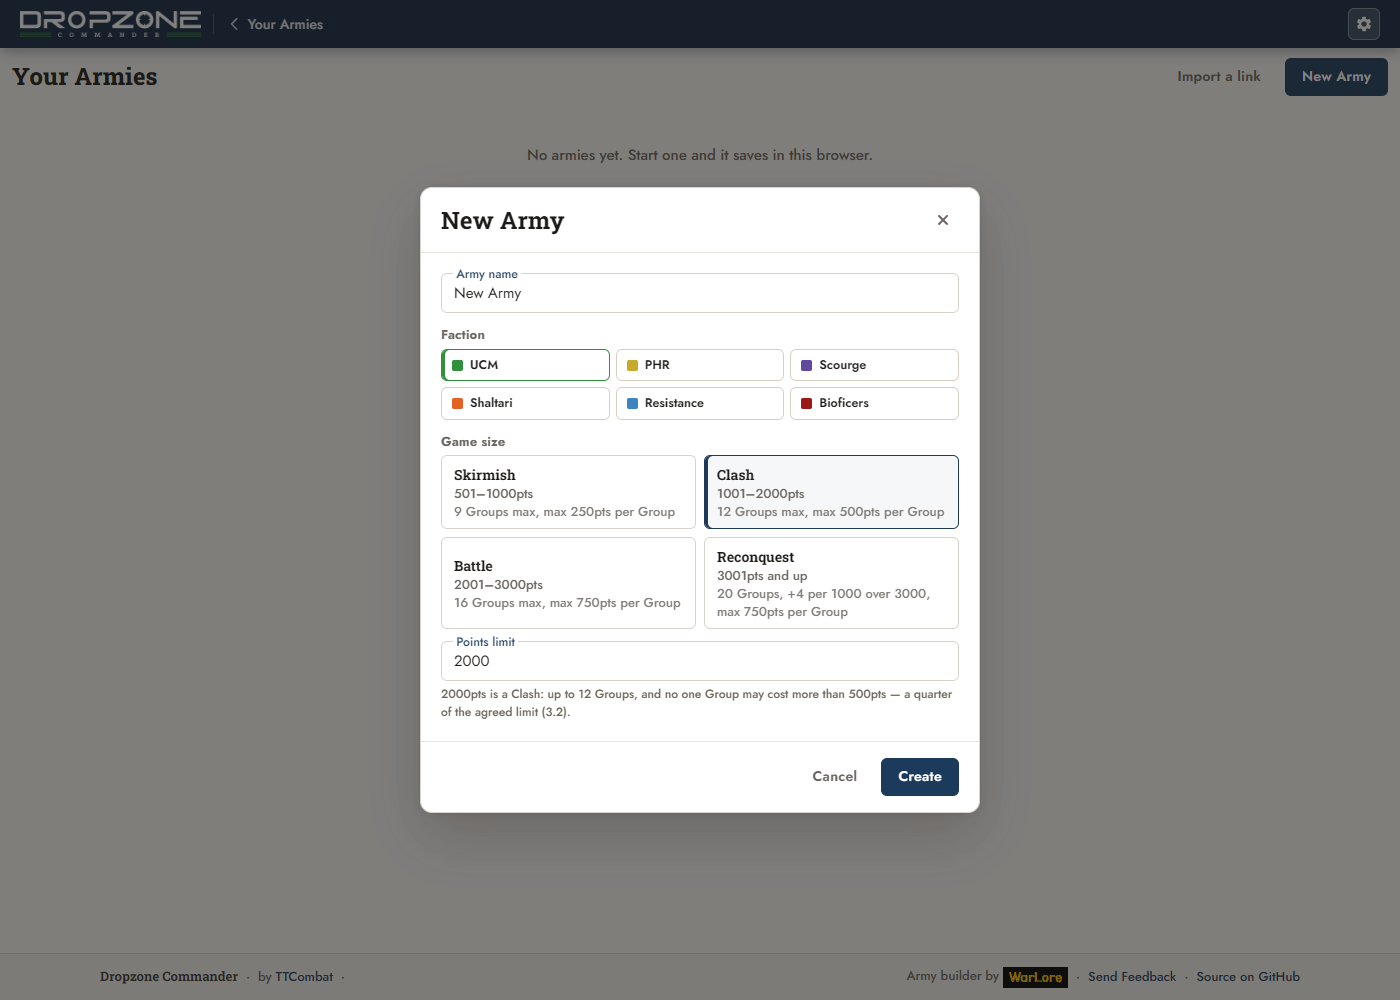
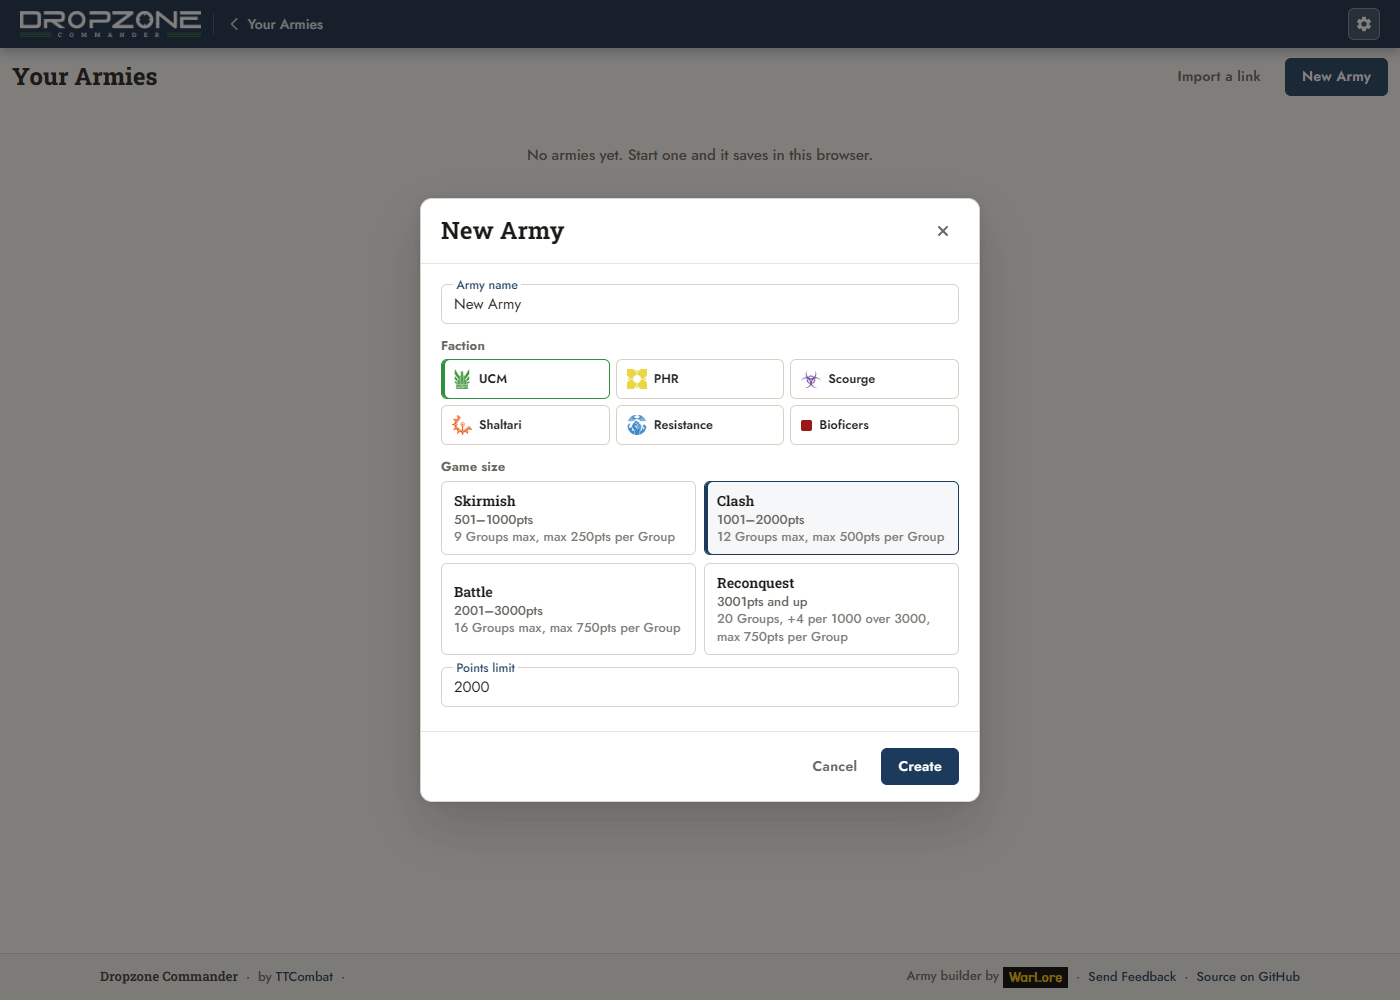
Gate Play, wire the real faction art, drop the New Army explainer
Play is disabled without a Commander and says why: CP per Round, hand size and
the Initiative modifier all come from Commander Level (4.1), so the mode
cannot run without one. Share and Print stay live, because a half-built list
is still worth sending to someone or taking to a table.

The faction picker uses the real art from assets/factions. Five of six exist;
Bioficer has no icon on disk, so that button keeps its accent square and the
image removes itself rather than showing a broken file. Logged for Jet -- no
brand art gets invented to fill the gap.

The New Army dialog loses its explainer paragraph. It restated the size card
directly above it. The note now speaks only when the number you typed is
unusable, or when it has moved you to a different size than the one you
clicked -- which is the only thing the card cannot tell you.

Category tiles read "0 of 100" instead of "0/ 100", which had the space on the
wrong side of the slash.

diff --git a/js/dzc-builder.js b/js/dzc-builder.js
@@ -117,6 +117,8 @@
             ${FACTIONS.map(f => `<button type="button" class="dzc-faction-btn${f.id === picked.faction ? ' selected' : ''}"
               style="--acc:${f.accent}" role="radio" aria-checked="${f.id === picked.faction}"
               onclick="DZCBuilder.pickFaction('${f.id}')">
+              <img class="dzc-faction-icon" src="assets/factions/${esc(f.id)}.webp" alt=""
+                   loading="lazy" onerror="this.remove()">
               <span class="dzc-faction-dot"></span>${esc(f.name)}</button>`).join('')}
           </div>
         </div>
@@ -138,9 +140,10 @@
     document.getElementById('dzc-new').classList.add('active');
   }
 
-  /* Says what the number you typed actually buys, and names the size it lands
-   * in — so a limit that disagrees with the card you clicked is visible rather
-   * than silently overriding it. */
+  /* The size cards already state the Group count and the per-Group cap, so
+   * this says nothing when the typed number agrees with the card that is
+   * selected. It speaks only when the number is unusable, or when it has moved
+   * you to a different size than the one you clicked. */
   function updatePointsNote() {
     const el = document.getElementById('dzc-points-note');
     if (!el) return;
@@ -150,11 +153,9 @@
       el.innerHTML = `<b>${n}pts is below the 501pt minimum</b> for a game (3.1).`;
       return;
     }
-    if (size.id !== picked.size) picked.size = size.id;
-    const cap = window.DZC.maxGroupCost(n);
-    const maxG = window.DZC.maxGroups(size, n);
-    el.textContent = `${n}pts is a ${size.label}: up to ${maxG} Groups, `
-      + `and no one Group may cost more than ${cap}pts — a quarter of the agreed limit (3.2).`;
+    const moved = size.id !== picked.size;
+    if (moved) picked.size = size.id;
+    el.textContent = moved ? `${n}pts makes this a ${size.label}.` : '';
     document.querySelectorAll('.game-size-option').forEach(o => {
       const on = o.dataset.size === size.id;
       o.classList.toggle('selected', on);
@@ -196,13 +197,14 @@
     const v = window.DZCArmy.validate(a);
     const spend = window.DZCArmy.categorySpend(a);
     const std = spend.standard || 0;
+    const playable = a.groups.some(g => g.squads.some(s => s.commander));
 
     const ratio = ['vanguard', 'heavy', 'support'].map(c => {
       const val = spend[c] || 0;
       const over = val > std;
       return `<div class="dzc-ratio${over ? ' is-over' : ''}">
         <span>${c[0].toUpperCase() + c.slice(1)}</span>
-        <b>${val}</b><i>/ ${std}</i></div>`;
+        <b>${val}</b><i>of ${std}</i></div>`;
     }).join('');
 
     root.innerHTML = `<div class="dzc-wrap dzc-builder" style="--acc:${accentOf(a.faction)}">
@@ -220,8 +222,16 @@
           <div class="dzc-b-pts ${cost > a.pointsLimit ? 'is-over' : ''}">
             <b>${cost}</b><span>/ ${a.pointsLimit}pts</span>
           </div>
+          <!-- Play needs a Commander: CP per Round, hand size and the Initiative
+               modifier all come from Commander Level (4.1). Offering it on an
+               army that has none would open a mode that cannot run. Share and
+               Print stay live, because a half-built list is worth sending
+               someone or taking to a table. -->
           <button class="btn btn-ghost btn-sm" type="button" onclick="DZCBuilder.play()"
-                  title="Run a game with this army">${window.DZCIcon('layers', { size: 15 })} Play</button>
+                  ${playable ? '' : 'disabled'}
+                  title="${playable ? 'Run a game with this army'
+                    : 'Add a Commander first — CP, hand size and Initiative all come from Commander Level (4.1)'}"
+                  >${window.DZCIcon('layers', { size: 15 })} Play</button>
           <button class="btn btn-ghost btn-sm" type="button" onclick="DZCBuilder.share()"
                   title="Copy a link to this army">${window.DZCIcon('share', { size: 15 })} Share</button>
           <button class="btn btn-ghost btn-sm" type="button" onclick="DZCBuilder.print()"

diff --git a/css/dzc.css b/css/dzc.css
@@ -172,7 +172,7 @@
   font-family: var(--font-numeric, 'Outfit', sans-serif);
   font-variant-numeric: tabular-nums;
 }
-.dzc-ratio i { font-style: normal; color: var(--ink-2, #6b6459); }
+.dzc-ratio i { font-style: normal; color: var(--ink-2, #6b6459); margin-left: 4px; }
 .dzc-ratio.is-std { background: var(--acc); color: #fff; }
 .dzc-ratio.is-std span, .dzc-ratio.is-std i { color: rgba(255,255,255,.85); }
 .dzc-ratio.is-over { background: #fde8e6; color: #7a1c15; }
@@ -538,6 +538,11 @@ button.dzc-sq-name:focus-visible { outline: 2px solid var(--acc); outline-offset
 }
 .dzc-faction-btn:hover { border-color: var(--acc); }
 .dzc-faction-btn.selected { border-color: var(--acc); box-shadow: inset 3px 0 0 var(--acc); }
+/* The real faction art where it exists. Bioficer has no icon on disk yet, so
+   that button keeps the accent square — onerror removes a broken image rather
+   than inventing brand art to fill the gap. */
+.dzc-faction-icon { width: 20px; height: 20px; object-fit: contain; flex: 0 0 auto; }
+.dzc-faction-icon + .dzc-faction-dot { display: none; }
 .dzc-faction-dot { width: 11px; height: 11px; border-radius: 2px; background: var(--acc); flex: 0 0 auto; }
 .dzc-points-row { margin-top: 8px; }
 
